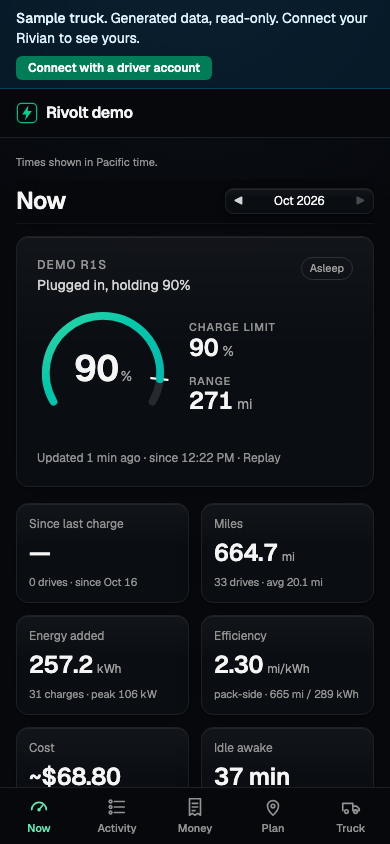
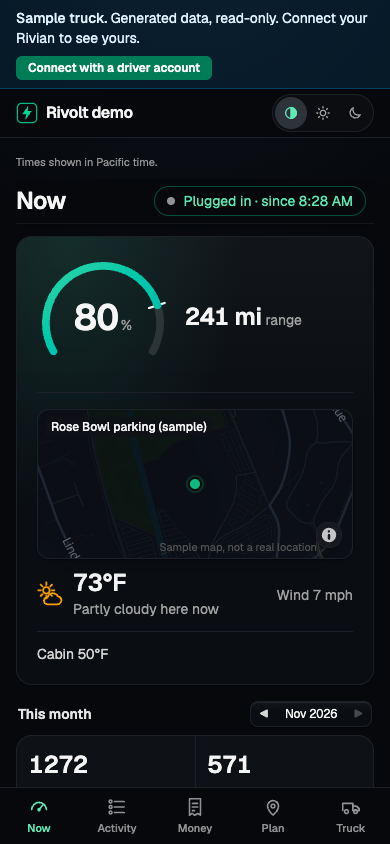
README: bring Now, scope, Activity views and theme in line with the live app; retake Now screenshots from the demo

diff --git a/README.md b/README.md
@@ -96,20 +96,46 @@ tab](https://demo.rivolt.dev/demo/trips/plan) has sample trips, including Los An
 
 Rivolt is organised around five tabs: **Now**, **Activity**,
 **Money**, **Plan** and **Truck**. Now, Activity and
-Truck share one calendar scope (Day, Week, Month or a custom range,
-with "This year" and "All time" inside Custom), Money steps month by month, and the app follows your system
-light / dark setting (or the Appearance card in Settings).
+Truck share one calendar scope (Day, Week, Month, 30 days or a custom range,
+with "This year" and "All time" inside Custom), Money steps month by month, and a
+light / dark / auto switch in the header (auto follows your system setting) picks the theme.
 
 ### Now — the truck at a glance
 
-The current state on one card: battery as an arc with the charge limit
-marked on it, range, and whether the truck is parked, plugged in,
-charging or driving (live frames while it moves, slower when parked).
-Under it, the numbers for the scope you picked: miles since the last
-charge, miles, energy added, efficiency, cost, and an Idle awake tile
-that links to Truck. Below those, miles per day and a battery trend
-with charging and driving shaded behind the line, so you can see why
-the percentage moved.
+The card at the top changes with what the truck is doing, and a status
+chip beside the title says which: parked, plugged in, charging or
+driving. Parked, it shows the battery as an arc with the charge limit
+marked on it, the range, a map of where the truck is and the weather
+there; a sleeping truck says where it is parked, how long it has been
+asleep and its total sleep time today. While charging or driving the
+card shows live figures instead (they update every few seconds while
+the truck moves, slower when it is parked), and each state has its own
+graph:
+
+- **Parked or asleep:** the battery over the last day, when the truck
+  slept and woke, and how much it lost since it parked.
+- **Charging:** the battery and power over the session, the pack
+  temperature, when it should finish, and energy and range added, the
+  rate and the time elapsed. Cost so far is priced from your rates and
+  always says it is an estimate and which rate it used.
+- **Driving:** your speed and battery over the drive, with gear, mode,
+  distance, time, efficiency and energy.
+
+Figures the truck does not report are worked out by Rivolt and marked:
+they sit under one "Estimated so far" heading, and a single worked-out
+figure next to measured ones carries a small "est.". Under the card,
+the numbers for the scope you picked (Day, Week, Month, 30 days or
+Custom): miles, kWh added, mi/kWh and what you spent. Below those,
+miles per day and a battery trend with charging and driving shaded
+behind the line, so you can see why the percentage moved.
+
+Only the Live button on the card opens the Live page: a charging panel with the charger (a "Fast
+charger" or a "Rivian charger" where it is one), energy added, range
+added, time, rate and what it is costing so far (a free session says
+"Free", and a charge with no price yet says so), or a drive panel with
+live speed, and a map. The truck picture steps aside while it drives or
+charges, so the panel and the map get the full width. Live needs a
+signed-in account, so it is not on the demo.
 
 ![Now](docs/screenshots/now.png)
 
@@ -123,8 +149,8 @@ the percentage moved.
 ### Activity — every drive and charge
 
 One day-grouped **Feed** of drives and charges, newest first, with
-**Table** and **Map** views of the same rows (the map shows Drives or
-Charges one layer at a time). Open any row for its detail page.
+**Table**, **Map** and **Efficiency** views of the same rows (the map
+shows Drives or Charges one layer at a time). Open any row for its detail page.
 
 **Drives.** Distance, duration, average speed, energy used and cost.
 The detail page draws the road-snapped route (self-hosted Valhalla over

diff --git a/docs/screenshots/README.md b/docs/screenshots/README.md
@@ -13,7 +13,7 @@ are 390 × 844.
 
 | Filename          | Page / view                                                     | Theme |
 |---                |---                                                              |:---:  |
-| `now.png`         | Now — state card, KPIs, miles per day, battery trend            | dark  |
+| `now.png`         | Now — state card, month tiles, miles per day, battery trend      | dark  |
 | `activity.png`    | Activity — the day-grouped feed                                 | dark  |
 | `money.png`       | Money — monthly statement, energy split, receipts               | dark  |
 | `plan.png`        | Plan — a sample trip with route, summary and itinerary          | dark  |
